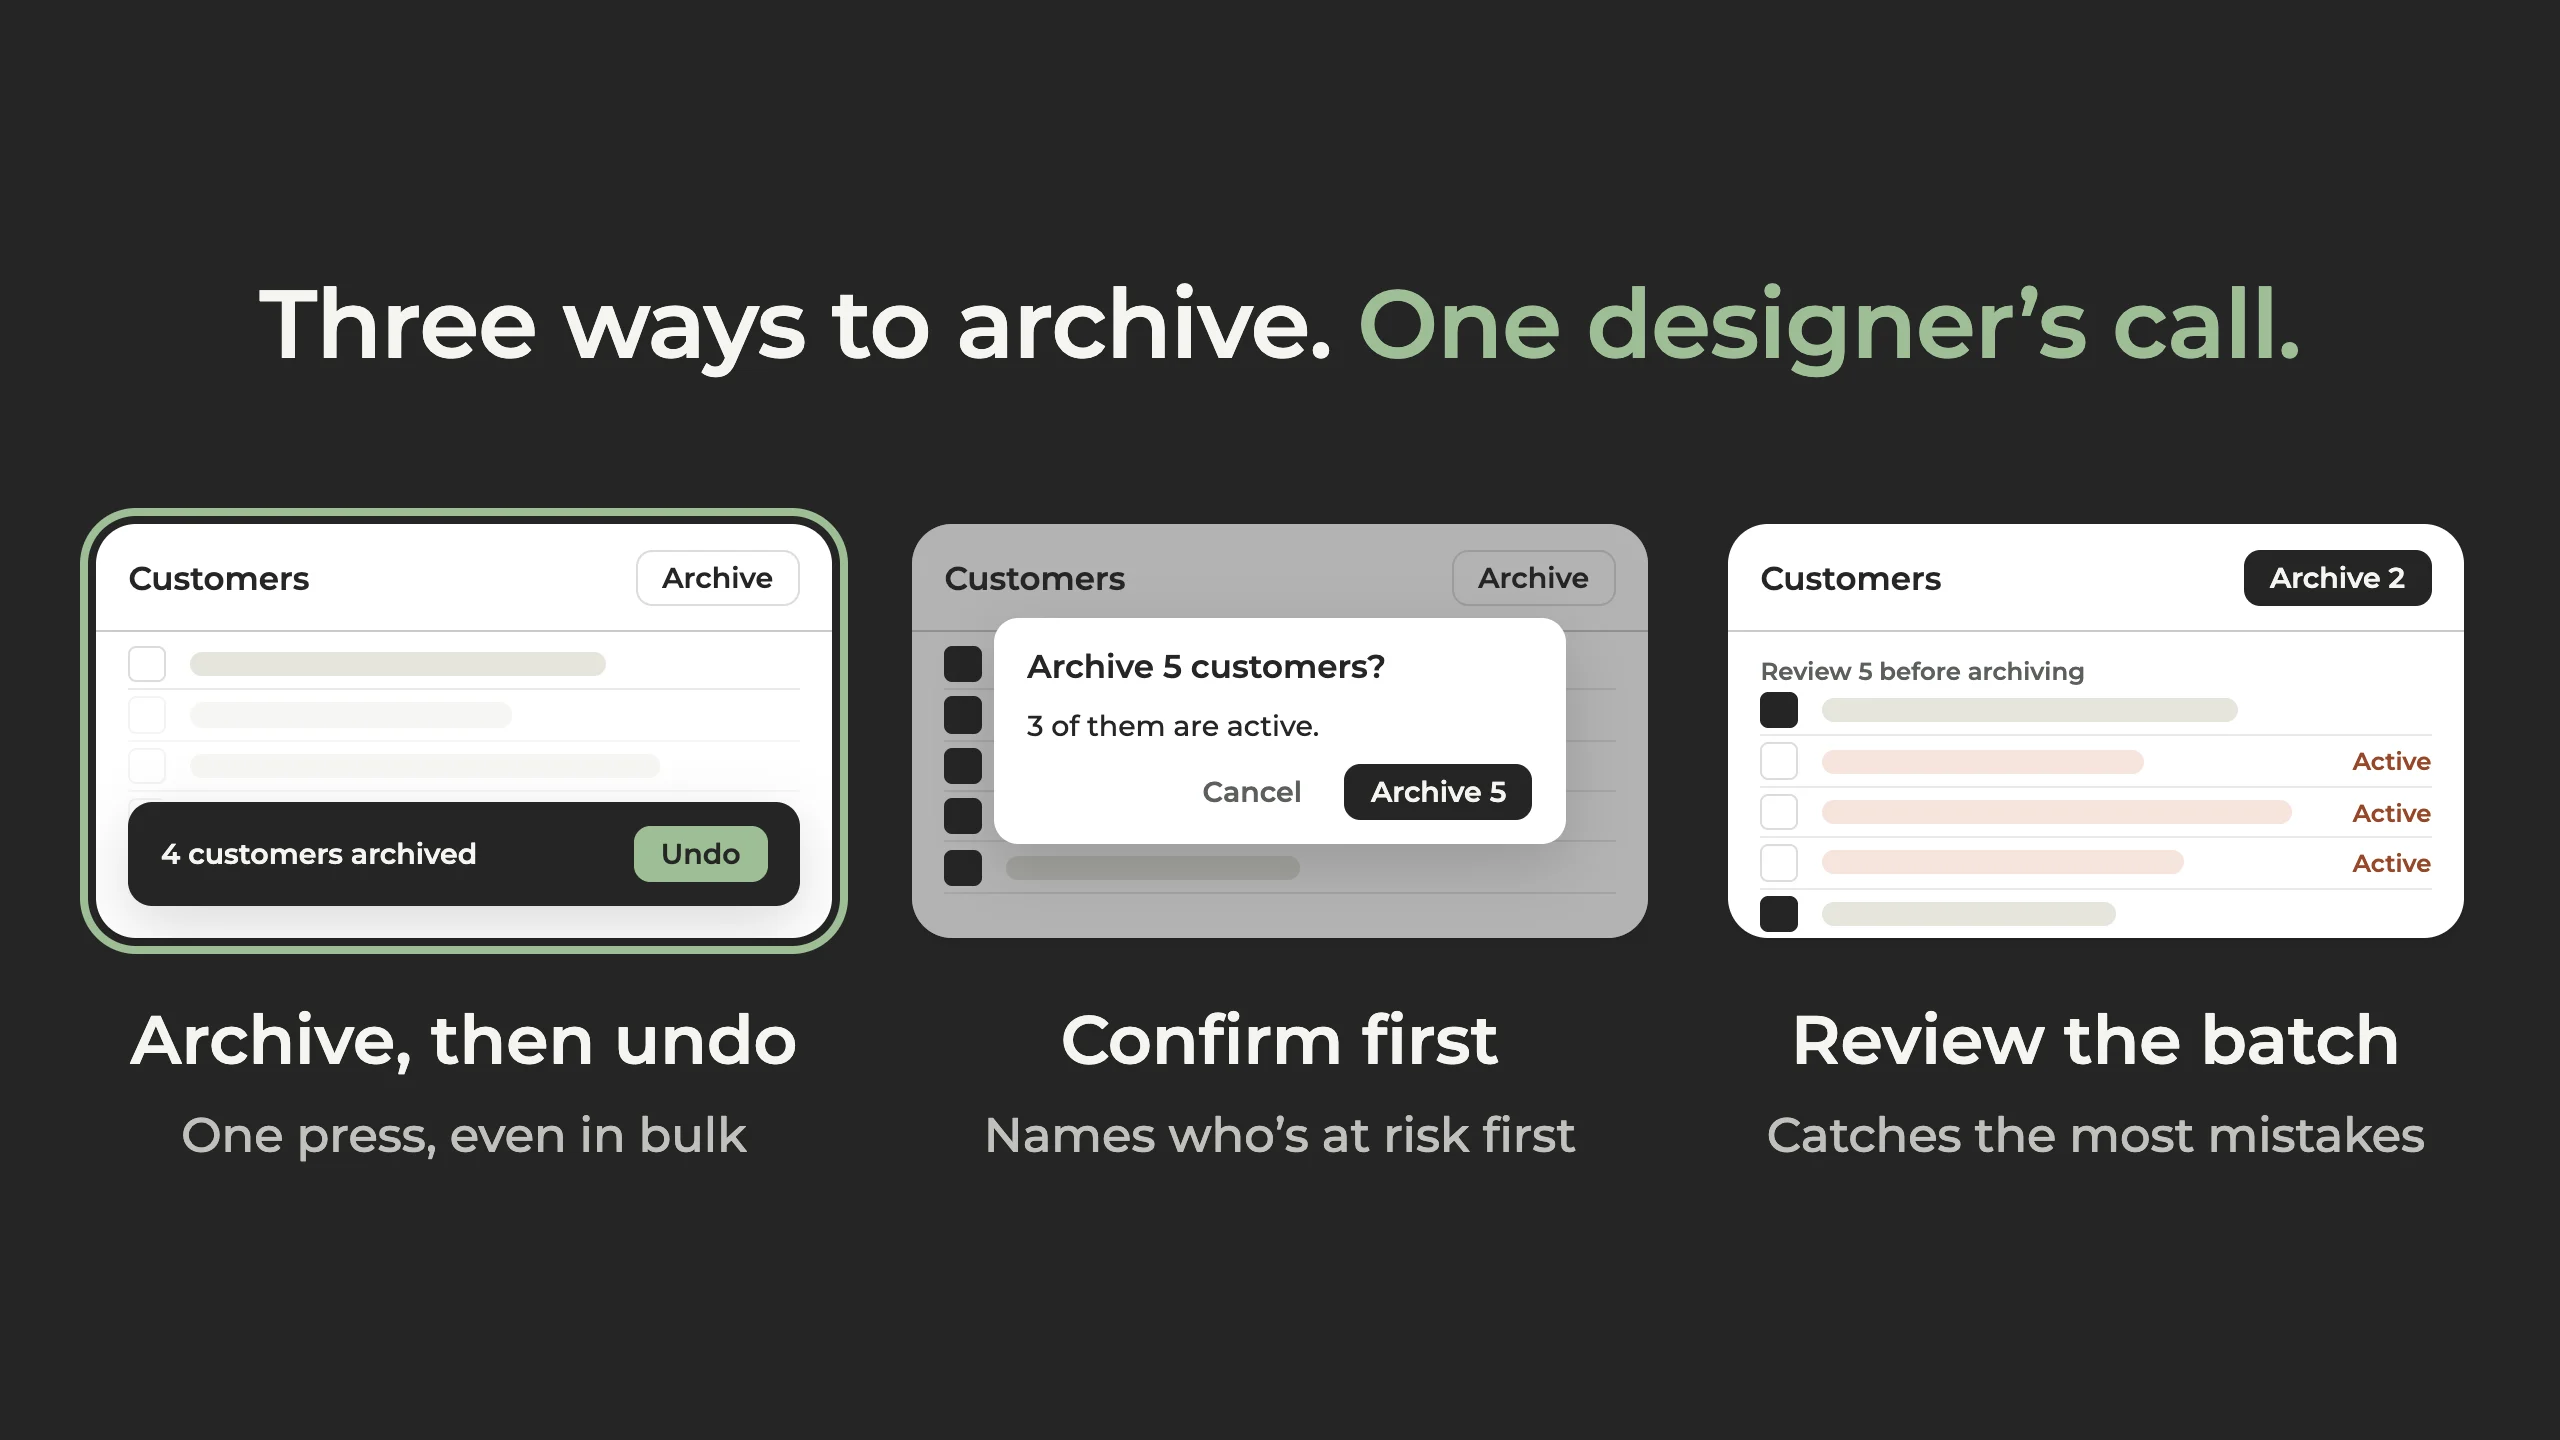
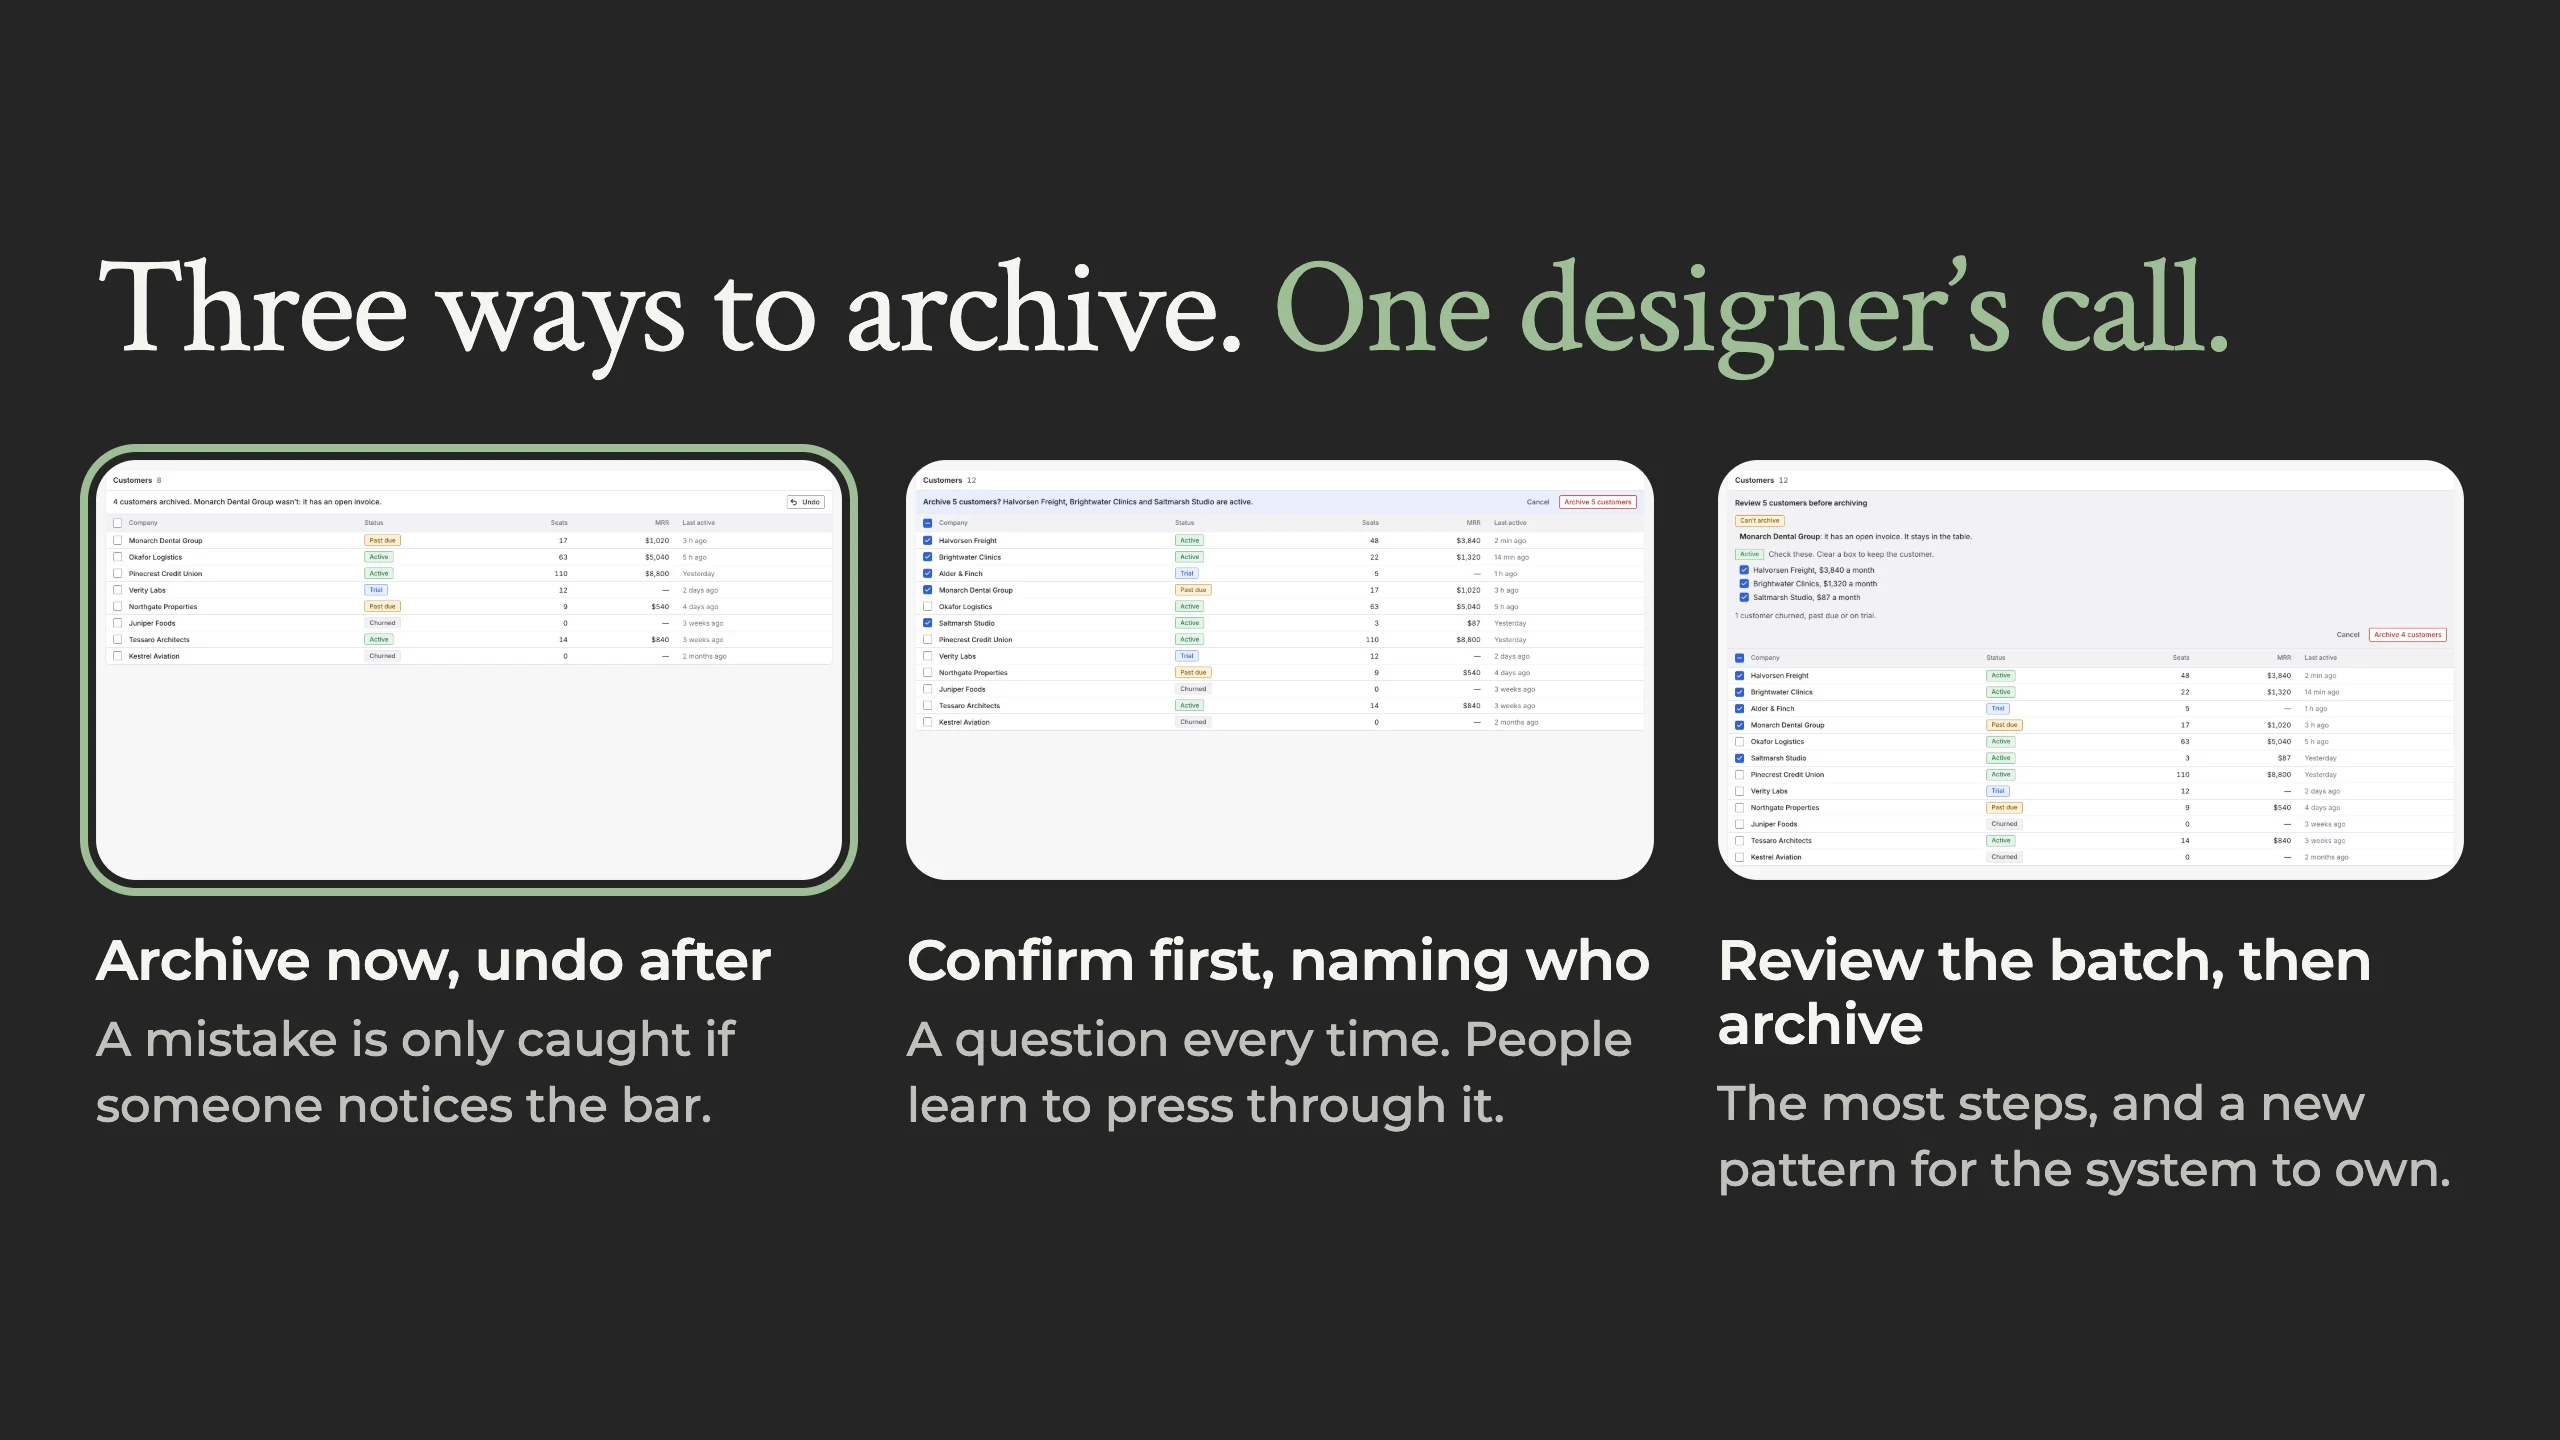
The Agent Review card is on the dark panel again, under "Three ways to archive. One designer's call.", with the prototype's own screens: each direction captured whole from the live app as a 16:9 window (1312 x 738 at zoom 1), where the scene cut each to the top of its table. Names and costs are the 

Changed region(s): [[0.0312, 0.2812, 0.9688, 0.8438], [0.0312, 0.1562, 0.9062, 0.2812]]

diff --git a/index.html b/index.html
@@ -912,7 +912,14 @@
              DRAWN BY THE PROTOTYPE ITSELF, since later that night: the
              three directions as the app draws them (agent-review
              #/scenes/three, captured by scripts/scenes.mjs), where the
-             cycle card was a drawing of them in the site's type. -->
+             cycle card was a drawing of them in the site's type.
+
+             ON THE DARK PANEL AGAIN, later still (Adam: it worked better
+             with the black background and the headline): the cycle card
+             is back, but its three screens are the prototype's own, each
+             captured whole as a 16:9 window by scripts/cycle-card.mjs,
+             where the scene cut each to the top of its table. The lab
+             index and the case study keep the scene. -->
         <div class="case-grid case-grid--lab stagger">
           <div class="case-card case-card--lab reveal">
             <div class="case-card-body">
@@ -924,7 +931,7 @@
               </p>
             </div>
             <a class="case-thumb" href="lab/agent-review.html" aria-label="Read the Agent Review case study: three ways to archive, one designer&rsquo;s call">
-              <img src="img/lab/agent-review-scene-three.webp?v=4" width="2560" height="1440" alt="" loading="lazy" decoding="async" />
+              <img src="img/lab/agent-review-cycle-card.webp?v=8" width="2560" height="1440" alt="" loading="lazy" decoding="async" />
             </a>
           </div>
         </div>
